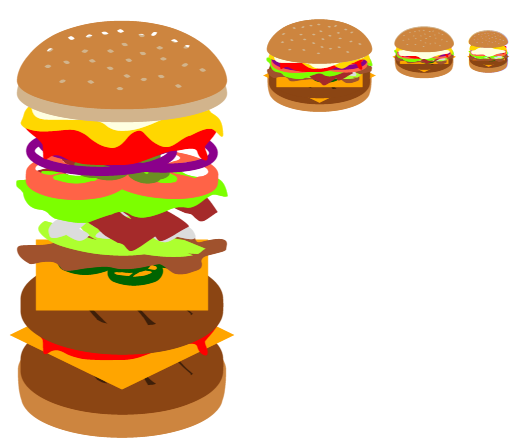
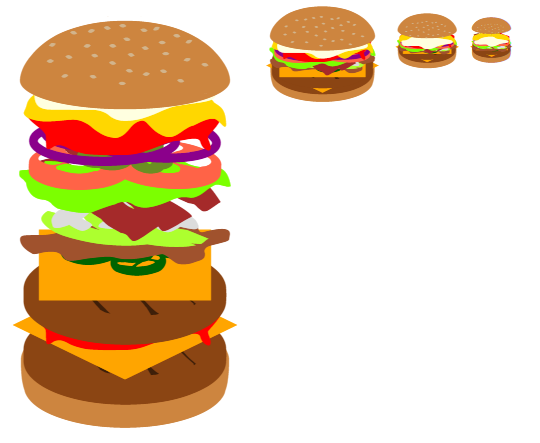
Add files via upload

diff --git a/index.html b/index.html
@@ -25,8 +25,8 @@
 	<body>
 		<div class="burger-wrapper">
 			<div class="burger huge">
-				<span class="top-bun-sesame"></span>
-				<span class="top-bun-back"></span>
+				<span class="sesame-seeds"></span>
+				<span class="top-bun"></span>
 				<span class="mayo"></span>
 				<span class="mustard"></span>
 				<span class="ketchup"></span>
@@ -49,8 +49,8 @@
 				<span class="bottom-bun"></span>
 			</div>
 			<div class="burger large">
-				<span class="top-bun-sesame"></span>
-				<span class="top-bun-back"></span>
+				<span class="sesame-seeds"></span>
+				<span class="top-bun"></span>
 				<span class="mayo"></span>
 				<span class="mustard"></span>
 				<span class="ketchup"></span>
@@ -72,8 +72,8 @@
 				<span class="bottom-bun"></span>
 			</div>
 			<div class="burger medium">
-				<span class="top-bun-sesame"></span>
-				<span class="top-bun-back"></span>
+				<span class="sesame-seeds"></span>
+				<span class="top-bun"></span>
 				<span class="mayo"></span>
 				<span class="mustard"></span>
 				<span class="ketchup"></span>
@@ -95,8 +95,8 @@
 				<span class="bottom-bun"></span>
 			</div>
 			<div class="burger small">
-				<span class="top-bun-sesame"></span>
-				<span class="top-bun-back"></span>
+				<span class="sesame-seeds"></span>
+				<span class="top-bun"></span>
 				<span class="mayo"></span>
 				<span class="mustard"></span>
 				<span class="ketchup"></span>

diff --git a/burger-dings.css b/burger-dings.css
@@ -50,7 +50,7 @@
 
 .burger .top-bun-back:before{
   content: "a";
-  color:tan;
+  color:#d2b48c;
 }
 
 .burger .top-bun{
@@ -73,12 +73,12 @@
 
 .burger .bottom-bun-inside:before{
   content: "c";
-  color:tan;
+  color:#d2b48c;
 }
 
 .burger .club-inside:before{
   content: "d";
-  color:tan;
+  color:#d2b48c;
 }
 
 .burger .onions{
@@ -99,9 +99,9 @@
   color: #FF6347;
 }
 
-.burger .top-bun-sesame:before{
+.burger .sesame-seeds:before{
   content: "g";
-  color:#CD853F;
+  color:#d2b48c;
 }
 
 .burger .cheese:before{
@@ -126,7 +126,7 @@
 
 .burger .club:before{
   content: "j";
-  color:tan;
+  color:#d2b48c;
 }
 
 .burger .cheese-rotated:before{
